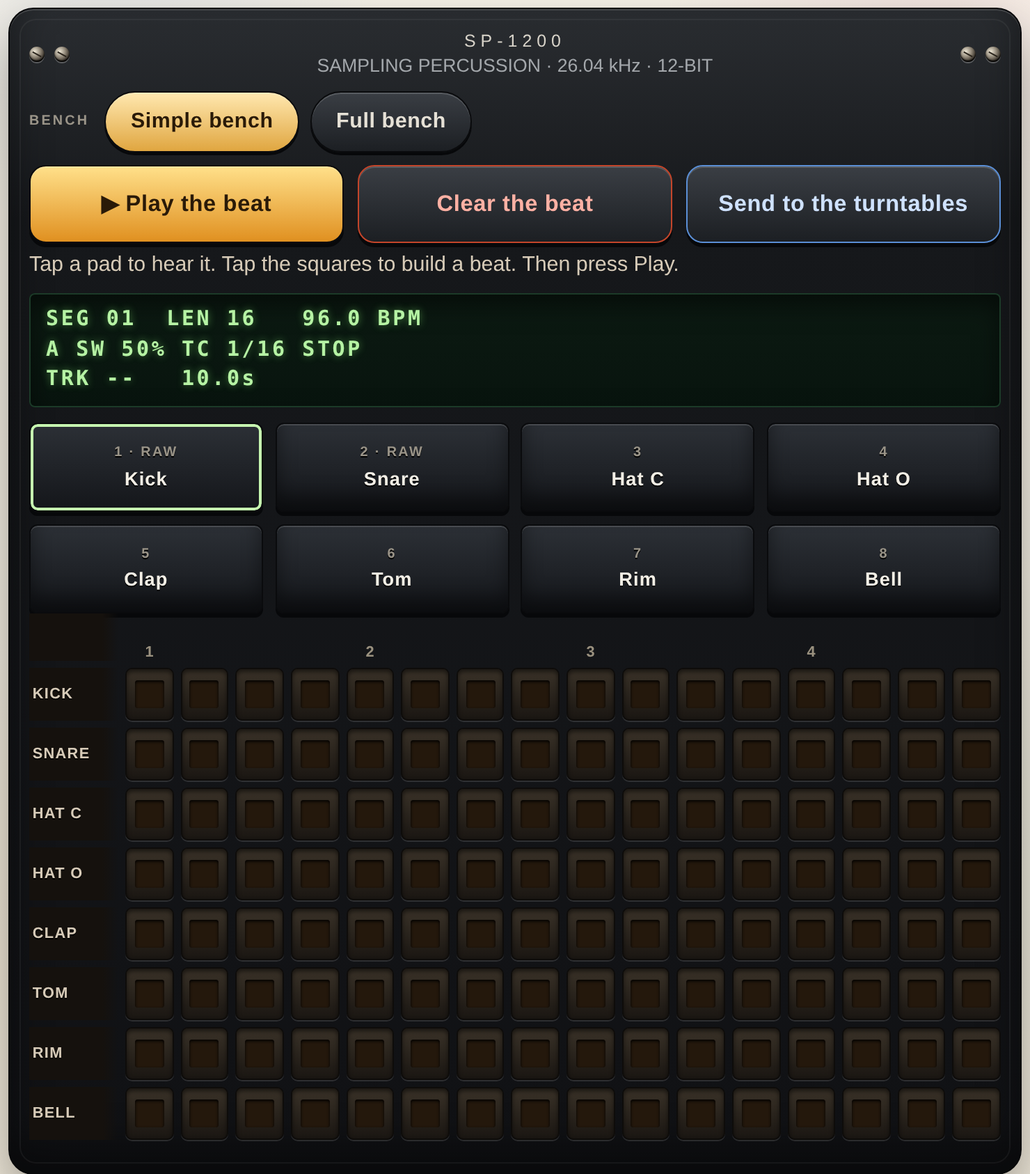
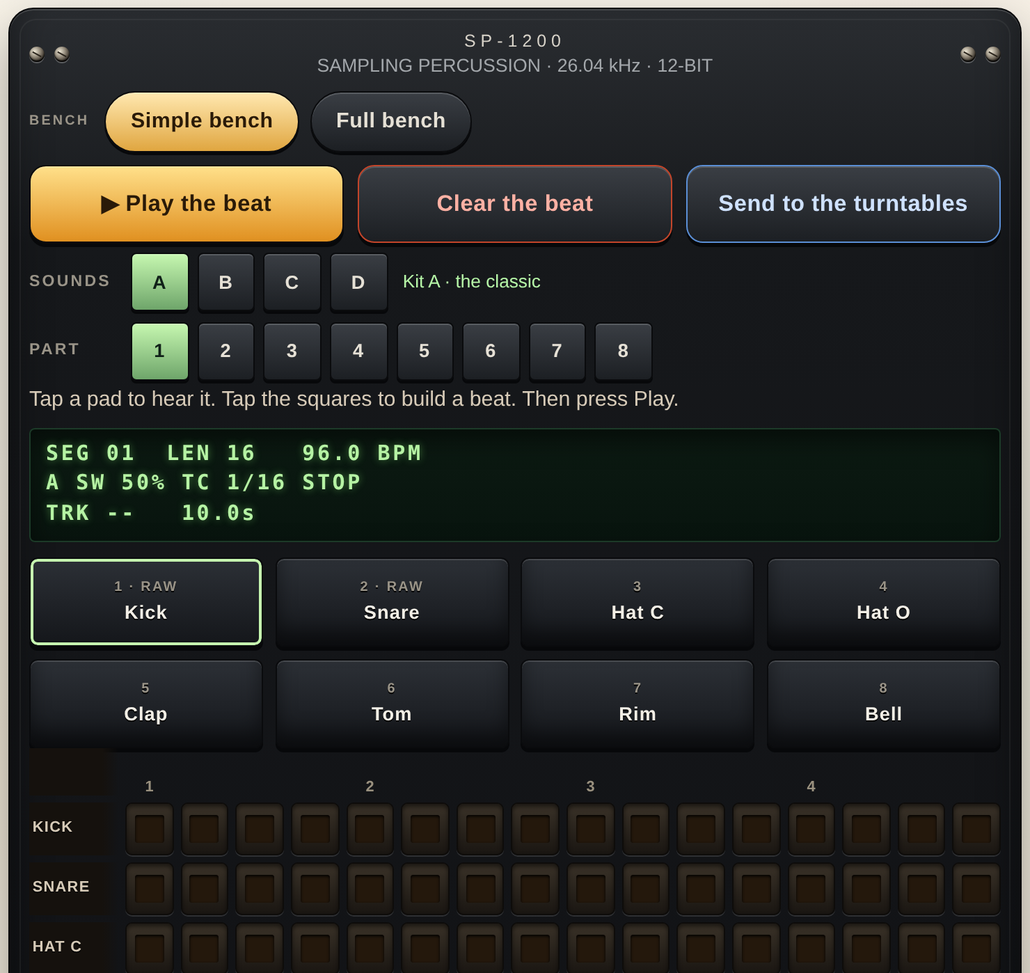
Drum machine: kits in banks C and D; Sounds and Part rows on the Simple bench
Bank C is an electro kit (808-style boom, snapping snare, tick and hiss hats,
big clap, conga, cowbell, zap). Bank D is a dusty-breaks kit (thump with a
click, rimshot crack, shaker, tambourine, finger snap, timbale, woodblock,
triangle). Both are baked through the same twelve bits and 26,040 Hz as A; a
sample loaded onto a pad still wins. The Simple bench shows Sounds A B C D and
Part 1–8, pressing the real keys. Picture guide updated. Cache bumped.

Claude-Session: https://claude.ai/code/session_01DeFL2jVNTjgcE9uZVbxzre

diff --git a/aog-deploy/sw.js b/aog-deploy/sw.js
@@ -8,7 +8,7 @@
  * not run on this file. Forget the bump and returning visitors keep the stale
  * page from their cache.
  */
-const CACHE = 'aog-cache-2026.09.26.4840'   // NEW DASHBOARD STAGE 4: INBOX + SWITCH-OVER. previous: NEW DASHBOARD STAGE 3: TRENDS, BRICK BY BRICK, REPORTS; BLUEPRINT PRINTS CLEAN. previous: NEW DASHBOARD STAGE 2: STUDENTS + CHECK-INS, WIDER. previous: DEMO BUTTON BY MTSS; TALK IT OUT OFF DASHBOARD; TEACHER TOOLS ON NEW DASHBOARD. previous: ONE ROW PER SEND: THE NO-CORS BACKUP NO LONGER DUPLICATES A SEND GOOGLE ALREADY SAVED. previous: NEW DASHBOARD STAGE 1 (/dashboard): TODAY, HAND OUT, CLASS LINK, TEACHER + STUDENT VIEWS; SHORTER DAILY DRAFTS WORDS. previous: PRINTS IN COLOUR SITE-WIDE; DAILY DRAFTS STRAND TABS IN COLOUR; MASTERING LISTS FIXED. previous: COURSE UNITS: ONE SECTION PER PAGE WITH BACK / NEXT. previous: SEND TO MY TEACHER IS ONE BIG GREEN BUTTON. previous: MASTERING COURSES (turntables, drum machine) WITH PICTURES; SMALLER TICK. previous: DARK MODE LIGHTER (evening navy); PICKED FEELINGS SHOW SOLID GOLD. previous: BENCHES LISTED LAB THEN ITS MANUAL. previous: MICROSCOPE: LIVE TICK, REALISTIC CHITIN; QUARTZ LENSES. previous: HOME HERO FITS A LAPTOP WINDOW. previous: EXPLORE MENU FITS THE SCREEN AND GAINS AT HOME. previous: SLIDES FACELIFT: every Start-here picture on 167 lesson pages gets shading, shadows, a lit stage and a step counter (aog-slides.js). previous: GRACE AT HOME IS LIVE (/at-home); NEW VISITORS START LIGHT; /framework /dashboard doors; build stamp. previous: OSCILLOSCOPE RECORD BUTTON; BACK NO LONGER LOOPS ON HOME ROOMS; SHOW-MY-TEACHER CLOSES ON BACK; AT HOME LAST IN DOOR 3. previous: EVERY PAGE STARTS LIGHT (navy masthead, cream page); one-time reset of old dark choices. previous: MICROSCOPE: DOG HAIR & TICK SLIDE + SLIDES IN ONE GROUPED MENU. previous: MICROSCOPE ORIGINALS CRAFT PASS: drawn blood and cheek, capsule bacteria, clearer onion. previous: MICROSCOPE: LEAF HAIRS SLIDE. previous: MICROSCOPE CRAFT PASS: shaded pollen, lily net, wing shadows, guard cells, cached views. previous: TURNTABLES: LOAD A SONG OPENS YOUR SONG LIBRARY; every song is copied so it never vanishes. previous: FIVE NEW MICROSCOPE SLIDES (pollen, butterfly wing, leaf stomata, diatoms, salt & sugar) + THE BAR CLEARS THE NOTCH AND GAINS BACK. previous: PLAIN WORDS: Family Mode, Quiet Space teacher tips, the check-in/exit/My Voice code hints and the self-reflection start screen, EN+ES. previous: PLAIN WORDS: the Educator Dashboard's help, intro and empty-state text (about 50 passages) rewritten, EN+ES; last store footnote removed. previous: PLAIN WORDS: home page hero and three doors rewritten, EN+ES; CLAUDE.md gains the plain-words rule. previous: PRIVACY IN PLAIN WORDS: every Privacy section rewritten shorter and plainer, same facts, EN+ES. previous: THE CROSSWALK PDFs ARE RETIRED: the 10 files are gone, every link points to its page, old PDF addresses 301 to the pages, Original PDF buttons removed. previous: Crosswalk pages: Confidential labels and store notes removed. previous: ALL TEN CROSSWALKS ARE PAGES: IDEA Legal linked. previous: CROSSWALK PAGES: Restorative, both Matrix previews and the Divine Blueprint Master linked. previous: CROSSWALK PAGES: Illinois SEL, Danielson, IDEA, MTSS live; Matrix previews built. previous: CROSSWALKS AS PAGES begin: aog-crosswalk.css + xw-casel.html. previous: BACK WORKS FROM THE CROSSWALK: back no longer re-opens it or leaves a blank screen. previous: THE SLIPS OPEN AGAIN: _redirects gains the 8 share doors (/reflection /checkin /exit /support /goal /home /myvoice /contribute), link/exit.html and link/contribute.html are new; the daily check-in, exit slip and My Voice get leaded glass cards. previous: QUIET SPACE IN GLASS: six soft glass tiles, a leaded right-now check, glass chips per question, a chapel-light glow; no motion. previous: Self-reflection name box: Your name or a code / Initials or a nickname are fine (EN+ES). previous: ONE BACKGROUND EVERYWHERE (aog-calm.css: limestone with stained-glass light pools in light, the same over navy in dark), Crosswalk stands alone, elegant Crosswalk cards, Explore 3 columns without overlap and never self-opening, Today's picture Close clear of the date, Framework loop list aligned. previous: CALM ON EVERY PAGE + GLASS IN THE ROOMS + TURNTABLE TAPS. aog-calm.css (the stillness rules: no sideways pan, no zoom on tap, no motion on touch, no rubber-band, clear focus) loads on every page, tools/check-calm.js guards it; the 9 subject hubs and 5 SEL rooms get the stained glass (aog-glass-rooms.css); the turntable and drum bench stop raising copy/paste and answer the first tap. previous: THE HERO GETS A ROSE WINDOW: a leaded rose window lit from behind glows softly behind the name, and the three doors are leaded with a band of glass each. previous: THE ROSE WINDOW GETS A STEM: the STEM doorway is gone; a leaded-glass flower stem with two glass leaves grows down from Grace through the open bottom point, and the lower motto moves below it. previous: THE ECOSYSTEM IN REAL GLASS: every roundel a leaded rondel (mottled glass, backlight, eight lead cames around a centre ring), Grace ringed in cames; the bottom doorway is now STEM (a Math / Science chooser) and Families moves to the open point; Faith stays hidden. previous: THE ECOSYSTEM AS A ROSE WINDOW: every doorway on the Framework's orbit is a jewel-glass roundel with a lead rim and white lettering; Grace a gold-ringed medallion. previous: DOOR THREE BACK (Family, Framework, Standards Crosswalk, Privacy; store and district doors stay shut) + STAINED GLASS on Family Mode, the Crosswalk, the Framework and Privacy; the title focus ring box removed; Crosswalk doubled heading fixed; Request full set and Pilot for schools hidden. previous: EXPLORE MENU IN STAINED GLASS: leaded, gold-framed panel; every door icon a jewel-glass pane in its subject colour; room rows edged in their room's glass; 01/02 as gold medallions (aog-topbar.js, every page). previous: DAILY DRAFTS CONTROL CARD IN GLASS: each subject a tile of its own jewel glass (chosen one lit), Grade menu and Draft stepper leaded with a gold chevron, card framed. previous: ALGORITHM TILES: each column problem is its own tile, the operation a jewel pill, answer cells light and dashed (gold when in use), START a gold arrow; aog-legible.js and the contrast check now read color(srgb ...) values. previous: DAILY DRAFTS GLASS REACHES WRITING: the plan boxes are jewel panes with lead edges and the prompt card is leaded; verified the ten-strand glass on all 100 subject/grade combinations. previous: DAILY DRAFTS IN STAINED GLASS: each of the ten strand boxes is a leaded jewel-glass pane, the Structural elements chips light in the same colours as strands are finished, and the sheet is framed like a window (screen only; print unchanged). previous: WHO'S BUILDING + TEST RUNS. Student view asks Who's building today? (names this device sent under, or I'm new) and the solo Blueprint never falls back to another person; a Test runs switch on the teacher dashboard marks every send from any page as <name> (test), with a TEST RUN tag on every page while on. previous: STUDENT HOME + INBOX IN THE DASHBOARD. aog-mine.js keeps a private copy of each practice send on the learner's device (aog.practice.mine); the dashboard's Student view shows Keep building links and the learner's own Blueprint; the Inbox tab opens turn-ins.html?embed=1 inside the dashboard. previous: FIVE STAINED-GLASS WINDOWS: the Blueprint can be built as a Rose Window, Gothic Lancet, Tiffany Dome, Kaleidoscope Star or Byzantine Ceiling, chosen per student; mottled glass, lead came, backlight, stone and bronze frames. previous: MY BLUEPRINT: a rose-window mosaic in the Inbox (Blueprint view, ?blueprint=name): every send is a pane of stained glass, centre outward; I'm learning for me switch hides IEP wording; dashboard growth section links to it. Where-this-comes-from box removed. previous: INBOX SPEAKS BRICK: Copy for IEP evidence -> Copy this brick (IEP evidence kept in the tooltip and copied note). previous: INBOX SHOWS DAILY DRAFTS ANSWERS. Jimmy: the Inbox Daily Drafts cards read empty (Counts only). turn-ins.html now reads extra.answers (strand, answer, right/wrong, key), writing rows (text, plan, rubric), and any other extra fields. previous: AOG-LEGIBLE-V1: aog-legible.js on every page (via aog-grace.js; index.html directly) darkens or lightens any text below 3:1 against its real background until it reads, keeping its hue; re-runs on theme flips and new content. previous: BRICK BY BRICK. Jimmy: tie the data points to the program's architecture theme. Growth over time -> Brick by brick; Add to an IEP goal -> Lay these bricks; the IEP tab heading -> The Build · IEP progress monitor; Where the next teaching is -> Next brick. Printed evidence keeps the official IEP wording. previous: GROWTH OVER TIME: every graph gets Print this graph (one activity on its own sheet); the top button reads Print all of <student>'s graphs. previous: NO MORE CREAM ON WHITE. aog-grace.js marks light boxes of every tag (p, span, a, button too) inside the navy masthead and re-checks content rendered later; turn-ins.html closes its header so the Inbox cards are not in the masthead. previous: THE SHEET CONNECTION STAYS PUT (AOG-CONN-KEEP-V1). Jimmy: has to re-enter the Web App URL quite a bit. Safari clears localStorage after 7 days unvisited and each address (.org, .netlify.app, previews) has its own; aog-conn-keep.js mirrors the connection to IndexedDB + a cookie and restores it, and the dashboard gains Copy restore link (#aog-connect=, never sent to a server). previous: EDUCATOR DASHBOARD: the Open as text (iPad) button is gone. Jimmy: it 404s (the /script copy was never deployed) and is not needed; Download Code.gs and the Setup guide stay. previous: UP NEXT IS A REAL CRATE: records stand as sleeves in a wooden box, drag one onto a deck or press A/B. previous: TURNTABLE RECORD CRATE + PICTURE GUIDES. Jimmy: make the turntable remember what was last used after the tab closes, with a Previously spun list and an Up next crate; put pictures in the turntable and drum kit guides. music-decks.html gains the crate (IndexedDB aog-crate: each deck's record + needle position, last 8 spun, Up next queue) and restores both decks on open; decks-guide.html gains section 7 Your record crate (pt-crate-next/prev/row.png); drums-guide.html gains screenshots in sections 5-9 (pd-presets.png new) replacing the icon drawings in Nothing is happening; music-drums .chip text color fixed for dark theme. previous: NO DARWINIAN EVOLUTION IN SCIENCE. Jimmy: remove evolution in the sense of Darwin. The Natural Selection (b8) and Genetics and Evolution (b33) Exam Prep rooms are retired (/b8 -> /exam-prep, /b33 -> /sci-u17) and dropped from every page's jump menu, the topbar, the precache list and the hubs; evolution items in the other science rooms are rewritten; the MS/HS LS4 codes leave the crosswalk; the Unit 14 banner loses its Galapagos finches (AOG-NOEVO-V1).
+const CACHE = 'aog-cache-2026.09.26.4850'   // NEW DASHBOARD STAGE 4: INBOX + SWITCH-OVER. previous: NEW DASHBOARD STAGE 3: TRENDS, BRICK BY BRICK, REPORTS; BLUEPRINT PRINTS CLEAN. previous: NEW DASHBOARD STAGE 2: STUDENTS + CHECK-INS, WIDER. previous: DEMO BUTTON BY MTSS; TALK IT OUT OFF DASHBOARD; TEACHER TOOLS ON NEW DASHBOARD. previous: ONE ROW PER SEND: THE NO-CORS BACKUP NO LONGER DUPLICATES A SEND GOOGLE ALREADY SAVED. previous: NEW DASHBOARD STAGE 1 (/dashboard): TODAY, HAND OUT, CLASS LINK, TEACHER + STUDENT VIEWS; SHORTER DAILY DRAFTS WORDS. previous: PRINTS IN COLOUR SITE-WIDE; DAILY DRAFTS STRAND TABS IN COLOUR; MASTERING LISTS FIXED. previous: COURSE UNITS: ONE SECTION PER PAGE WITH BACK / NEXT. previous: SEND TO MY TEACHER IS ONE BIG GREEN BUTTON. previous: MASTERING COURSES (turntables, drum machine) WITH PICTURES; SMALLER TICK. previous: DARK MODE LIGHTER (evening navy); PICKED FEELINGS SHOW SOLID GOLD. previous: BENCHES LISTED LAB THEN ITS MANUAL. previous: MICROSCOPE: LIVE TICK, REALISTIC CHITIN; QUARTZ LENSES. previous: HOME HERO FITS A LAPTOP WINDOW. previous: EXPLORE MENU FITS THE SCREEN AND GAINS AT HOME. previous: SLIDES FACELIFT: every Start-here picture on 167 lesson pages gets shading, shadows, a lit stage and a step counter (aog-slides.js). previous: GRACE AT HOME IS LIVE (/at-home); NEW VISITORS START LIGHT; /framework /dashboard doors; build stamp. previous: OSCILLOSCOPE RECORD BUTTON; BACK NO LONGER LOOPS ON HOME ROOMS; SHOW-MY-TEACHER CLOSES ON BACK; AT HOME LAST IN DOOR 3. previous: EVERY PAGE STARTS LIGHT (navy masthead, cream page); one-time reset of old dark choices. previous: MICROSCOPE: DOG HAIR & TICK SLIDE + SLIDES IN ONE GROUPED MENU. previous: MICROSCOPE ORIGINALS CRAFT PASS: drawn blood and cheek, capsule bacteria, clearer onion. previous: MICROSCOPE: LEAF HAIRS SLIDE. previous: MICROSCOPE CRAFT PASS: shaded pollen, lily net, wing shadows, guard cells, cached views. previous: TURNTABLES: LOAD A SONG OPENS YOUR SONG LIBRARY; every song is copied so it never vanishes. previous: FIVE NEW MICROSCOPE SLIDES (pollen, butterfly wing, leaf stomata, diatoms, salt & sugar) + THE BAR CLEARS THE NOTCH AND GAINS BACK. previous: PLAIN WORDS: Family Mode, Quiet Space teacher tips, the check-in/exit/My Voice code hints and the self-reflection start screen, EN+ES. previous: PLAIN WORDS: the Educator Dashboard's help, intro and empty-state text (about 50 passages) rewritten, EN+ES; last store footnote removed. previous: PLAIN WORDS: home page hero and three doors rewritten, EN+ES; CLAUDE.md gains the plain-words rule. previous: PRIVACY IN PLAIN WORDS: every Privacy section rewritten shorter and plainer, same facts, EN+ES. previous: THE CROSSWALK PDFs ARE RETIRED: the 10 files are gone, every link points to its page, old PDF addresses 301 to the pages, Original PDF buttons removed. previous: Crosswalk pages: Confidential labels and store notes removed. previous: ALL TEN CROSSWALKS ARE PAGES: IDEA Legal linked. previous: CROSSWALK PAGES: Restorative, both Matrix previews and the Divine Blueprint Master linked. previous: CROSSWALK PAGES: Illinois SEL, Danielson, IDEA, MTSS live; Matrix previews built. previous: CROSSWALKS AS PAGES begin: aog-crosswalk.css + xw-casel.html. previous: BACK WORKS FROM THE CROSSWALK: back no longer re-opens it or leaves a blank screen. previous: THE SLIPS OPEN AGAIN: _redirects gains the 8 share doors (/reflection /checkin /exit /support /goal /home /myvoice /contribute), link/exit.html and link/contribute.html are new; the daily check-in, exit slip and My Voice get leaded glass cards. previous: QUIET SPACE IN GLASS: six soft glass tiles, a leaded right-now check, glass chips per question, a chapel-light glow; no motion. previous: Self-reflection name box: Your name or a code / Initials or a nickname are fine (EN+ES). previous: ONE BACKGROUND EVERYWHERE (aog-calm.css: limestone with stained-glass light pools in light, the same over navy in dark), Crosswalk stands alone, elegant Crosswalk cards, Explore 3 columns without overlap and never self-opening, Today's picture Close clear of the date, Framework loop list aligned. previous: CALM ON EVERY PAGE + GLASS IN THE ROOMS + TURNTABLE TAPS. aog-calm.css (the stillness rules: no sideways pan, no zoom on tap, no motion on touch, no rubber-band, clear focus) loads on every page, tools/check-calm.js guards it; the 9 subject hubs and 5 SEL rooms get the stained glass (aog-glass-rooms.css); the turntable and drum bench stop raising copy/paste and answer the first tap. previous: THE HERO GETS A ROSE WINDOW: a leaded rose window lit from behind glows softly behind the name, and the three doors are leaded with a band of glass each. previous: THE ROSE WINDOW GETS A STEM: the STEM doorway is gone; a leaded-glass flower stem with two glass leaves grows down from Grace through the open bottom point, and the lower motto moves below it. previous: THE ECOSYSTEM IN REAL GLASS: every roundel a leaded rondel (mottled glass, backlight, eight lead cames around a centre ring), Grace ringed in cames; the bottom doorway is now STEM (a Math / Science chooser) and Families moves to the open point; Faith stays hidden. previous: THE ECOSYSTEM AS A ROSE WINDOW: every doorway on the Framework's orbit is a jewel-glass roundel with a lead rim and white lettering; Grace a gold-ringed medallion. previous: DOOR THREE BACK (Family, Framework, Standards Crosswalk, Privacy; store and district doors stay shut) + STAINED GLASS on Family Mode, the Crosswalk, the Framework and Privacy; the title focus ring box removed; Crosswalk doubled heading fixed; Request full set and Pilot for schools hidden. previous: EXPLORE MENU IN STAINED GLASS: leaded, gold-framed panel; every door icon a jewel-glass pane in its subject colour; room rows edged in their room's glass; 01/02 as gold medallions (aog-topbar.js, every page). previous: DAILY DRAFTS CONTROL CARD IN GLASS: each subject a tile of its own jewel glass (chosen one lit), Grade menu and Draft stepper leaded with a gold chevron, card framed. previous: ALGORITHM TILES: each column problem is its own tile, the operation a jewel pill, answer cells light and dashed (gold when in use), START a gold arrow; aog-legible.js and the contrast check now read color(srgb ...) values. previous: DAILY DRAFTS GLASS REACHES WRITING: the plan boxes are jewel panes with lead edges and the prompt card is leaded; verified the ten-strand glass on all 100 subject/grade combinations. previous: DAILY DRAFTS IN STAINED GLASS: each of the ten strand boxes is a leaded jewel-glass pane, the Structural elements chips light in the same colours as strands are finished, and the sheet is framed like a window (screen only; print unchanged). previous: WHO'S BUILDING + TEST RUNS. Student view asks Who's building today? (names this device sent under, or I'm new) and the solo Blueprint never falls back to another person; a Test runs switch on the teacher dashboard marks every send from any page as <name> (test), with a TEST RUN tag on every page while on. previous: STUDENT HOME + INBOX IN THE DASHBOARD. aog-mine.js keeps a private copy of each practice send on the learner's device (aog.practice.mine); the dashboard's Student view shows Keep building links and the learner's own Blueprint; the Inbox tab opens turn-ins.html?embed=1 inside the dashboard. previous: FIVE STAINED-GLASS WINDOWS: the Blueprint can be built as a Rose Window, Gothic Lancet, Tiffany Dome, Kaleidoscope Star or Byzantine Ceiling, chosen per student; mottled glass, lead came, backlight, stone and bronze frames. previous: MY BLUEPRINT: a rose-window mosaic in the Inbox (Blueprint view, ?blueprint=name): every send is a pane of stained glass, centre outward; I'm learning for me switch hides IEP wording; dashboard growth section links to it. Where-this-comes-from box removed. previous: INBOX SPEAKS BRICK: Copy for IEP evidence -> Copy this brick (IEP evidence kept in the tooltip and copied note). previous: INBOX SHOWS DAILY DRAFTS ANSWERS. Jimmy: the Inbox Daily Drafts cards read empty (Counts only). turn-ins.html now reads extra.answers (strand, answer, right/wrong, key), writing rows (text, plan, rubric), and any other extra fields. previous: AOG-LEGIBLE-V1: aog-legible.js on every page (via aog-grace.js; index.html directly) darkens or lightens any text below 3:1 against its real background until it reads, keeping its hue; re-runs on theme flips and new content. previous: BRICK BY BRICK. Jimmy: tie the data points to the program's architecture theme. Growth over time -> Brick by brick; Add to an IEP goal -> Lay these bricks; the IEP tab heading -> The Build · IEP progress monitor; Where the next teaching is -> Next brick. Printed evidence keeps the official IEP wording. previous: GROWTH OVER TIME: every graph gets Print this graph (one activity on its own sheet); the top button reads Print all of <student>'s graphs. previous: NO MORE CREAM ON WHITE. aog-grace.js marks light boxes of every tag (p, span, a, button too) inside the navy masthead and re-checks content rendered later; turn-ins.html closes its header so the Inbox cards are not in the masthead. previous: THE SHEET CONNECTION STAYS PUT (AOG-CONN-KEEP-V1). Jimmy: has to re-enter the Web App URL quite a bit. Safari clears localStorage after 7 days unvisited and each address (.org, .netlify.app, previews) has its own; aog-conn-keep.js mirrors the connection to IndexedDB + a cookie and restores it, and the dashboard gains Copy restore link (#aog-connect=, never sent to a server). previous: EDUCATOR DASHBOARD: the Open as text (iPad) button is gone. Jimmy: it 404s (the /script copy was never deployed) and is not needed; Download Code.gs and the Setup guide stay. previous: UP NEXT IS A REAL CRATE: records stand as sleeves in a wooden box, drag one onto a deck or press A/B. previous: TURNTABLE RECORD CRATE + PICTURE GUIDES. Jimmy: make the turntable remember what was last used after the tab closes, with a Previously spun list and an Up next crate; put pictures in the turntable and drum kit guides. music-decks.html gains the crate (IndexedDB aog-crate: each deck's record + needle position, last 8 spun, Up next queue) and restores both decks on open; decks-guide.html gains section 7 Your record crate (pt-crate-next/prev/row.png); drums-guide.html gains screenshots in sections 5-9 (pd-presets.png new) replacing the icon drawings in Nothing is happening; music-drums .chip text color fixed for dark theme. previous: NO DARWINIAN EVOLUTION IN SCIENCE. Jimmy: remove evolution in the sense of Darwin. The Natural Selection (b8) and Genetics and Evolution (b33) Exam Prep rooms are retired (/b8 -> /exam-prep, /b33 -> /sci-u17) and dropped from every page's jump menu, the topbar, the precache list and the hubs; evolution items in the other science rooms are rewritten; the MS/HS LS4 codes leave the crosswalk; the Unit 14 banner loses its Galapagos finches (AOG-NOEVO-V1).
 // previous: const CACHE = 'aog-cache-2026.09.26.4421'   // ANCHOR CHARTS: THE BACKPACK BOXES TAKE WORDS. Jimmy: "This seems like a area to insert but you can insert anything." The four 'Added as the lesson progresses' boxes were reveal-only; now a tap reveals a waiting box and each box takes the class's own words, saved with the chart (AOG-AC-PACKTAP-V1).
 // previous: const CACHE = 'aog-cache-2026.09.26.4420'   // ECONOMICS FL.1 AND STANDARDS TAGGING. Economics Unit 1 gains lesson 2.12, Investing in Your Own Skills (SS.EC.FL.1.9-12: education and career choices as a cost-benefit decision), spliced into eco-u1.html by a three-way merge of the course build so no later page edit is lost. World Religions units 4, 5, 7 and 9 are tagged SS.G.6.9-12 and the capstone RH.11-12.8, where the lessons already teach them; the crosswalk and standards data are rebuilt.
 // previous: const CACHE = 'aog-cache-2026.09.26.4419'   // DAILY DRAFTS, SPANISH CULTURES AND FACS RELATIONSHIPS. ACTFL Cultures and Comparisons join every Spanish reading box in that grade's language rung; FACS standards 1, 12 and 13 (career and family, human development, relationships) join the decide/reasoning boxes. Economics and World Religions already match their standards one box to one. Still ten boxes (AOG-DD-STD3-V1).

diff --git a/aog-deploy/music-drums.html b/aog-deploy/music-drums.html
@@ -110,6 +110,10 @@ header { display:flex; flex-wrap:wrap; justify-content:space-between; align-item
 .simple-strip .s-play.go{background:linear-gradient(#ffb1a4,#c4452a);color:#2a0c08}
 .simple-strip .s-clear{border-color:#c4452a;color:#ffb1a4}
 .simple-strip .s-decks{border-color:#5b8fd6;color:#cfe2ff}
+.simple-row{display:flex;flex-wrap:wrap;gap:6px;align-items:center;margin:.45rem 0 0}
+.simple-row>span{font-size:.72rem;letter-spacing:.14em;color:#9a9488;font-weight:800;text-transform:uppercase;min-width:4.2rem}
+.simple-row>em{font-style:normal;color:#b7f7a8;font-size:.82rem;margin-left:.3rem}
+.simple-row .sp-key{min-width:2.6rem;font-size:.85rem}
 .simple-line{color:#d7cbb8;font-size:.95rem;margin:.2rem 0 .6rem;line-height:1.4}
 @media (max-width:520px){ .simple-strip{grid-template-columns:1fr 1fr} .simple-strip .s-play{grid-column:1 / -1} }
 .machine.simple .sp-keys,.machine.simple .sp-banks,.machine.simple .scope-bezel,.machine.simple .sp-eq,.machine.simple .fader,.machine.simple .seg-label{display:none}
@@ -424,6 +428,7 @@ const STR = {
   clear:{en:"Clear grid",es:"Vaciar"},
   benchLab:{en:"Bench",es:"Banco"}, benchSimple:{en:"Simple bench",es:"Banco sencillo"}, benchFull:{en:"Full bench",es:"Banco completo"},
   sPlay:{en:"▶ Play the beat",es:"▶ Tocar el ritmo"}, sStop:{en:"■ Stop",es:"■ Parar"}, sClear:{en:"Clear the beat",es:"Borrar el ritmo"}, sDecks:{en:"Send to the turntables",es:"Enviar a los platos"},
+  sKit:{en:"Sounds",es:"Sonidos"}, sPart:{en:"Part",es:"Parte"},
   sLine:{en:"Tap a pad to hear it. Tap the squares to build a beat. Then press Play.",es:"Toca un pad para oírlo. Toca los cuadros para armar un ritmo. Luego pulsa Tocar."},
   tempo:{en:"Tempo",es:"Tempo"},
   swing:{en:"Swing",es:"Swing"},
@@ -502,6 +507,7 @@ const S = { bench:(function(){ try{ return localStorage.getItem("aog.drums.bench
   eq:{low:0, lmid:0, lmidF:400, hmid:0, hmidF:2500, high:0, hp:20} };
 const USER = {A:{}, B:{}, C:{}, D:{}};
 const ROM = {};
+const ROMK = {C:{}, D:{}};   /* AOG-SP-KITCD-V1 — the electro and dusty kits */
 const ROM_LEN = {};
 function emptyGrid(){
   const g={}; VOICES.forEach(v=> g[v.id]=Array(16).fill(0)); return g;
@@ -684,7 +690,77 @@ function noiseHit(ac, dest, t0, type, freq, q, peak, decay){
   const g=envGain(ac, dest, t0, peak, decay);
   src.connect(f); f.connect(g); src.start(t0); src.stop(t0+decay+0.03);
 }
-function renderVoice(id, t0, dest, ac){
+/* AOG-SP-KITCD-V1 (2026-09-26) — Jimmy: "fill up C & D with other sounds you think would fit the
+   SP-1200 the best." Bank C is the ELECTRO kit the machine was famous for pairing with — a long
+   808-style boom, a snapping snare, a cowbell and a conga, a zap. Bank D is the DUSTY kit — the
+   found percussion of a breakbeat: a thumping kick with a click, a cracking rimshot snare, a shaker,
+   a tambourine, a finger snap, a timbale, a woodblock, a triangle. Both are baked through the same
+   twelve bits and 26,040 Hz as A, so they crunch the same way. A sample loaded onto a pad still
+   wins over the kit sound on that pad. */
+const KIT_NAME={C:{kick:"BOOM",snare:"SNAP",ch:"TICK",oh:"HISS",clap:"CLAP2",tom:"CONGA",rim:"COWBEL",bell:"ZAP"},
+                D:{kick:"THUMP",snare:"CRACK",ch:"SHAKER",oh:"TAMB",clap:"FSNAP",tom:"TIMBAL",rim:"BLOCK",bell:"TRIANG"}};
+const KIT_LABEL={A:["Kit A · the classic","Kit A · el clásico"],B:["Kit B · the classic, retuned","Kit B · el clásico, reafinado"],C:["Kit C · electro","Kit C · electro"],D:["Kit D · dusty breaks","Kit D · breaks polvorientos"]};
+function romFor(bank){ return (bank==="C"||bank==="D") ? ROMK[bank] : ROM; }
+function renderVoiceC(id, t0, dest, ac){
+  if(id==="kick"){            /* the 808 boom: a sine that sags from 62 to 38 Hz and hangs on */
+    tone(ac, dest, t0, "sine", 62, 38, 0.95, 0.85);
+    tone(ac, dest, t0, "square", 900, 200, 0.08, 0.008);
+  } else if(id==="snare"){    /* short, snapping, more noise than tone */
+    tone(ac, dest, t0, "triangle", 210, 170, 0.22, 0.07);
+    noiseHit(ac, dest, t0, "bandpass", 2600, 0.8, 0.5, 0.11);
+    noiseHit(ac, dest, t0, "highpass", 6000, 0.7, 0.2, 0.05);
+  } else if(id==="ch"){       /* a tick: very short metallic burst */
+    noiseHit(ac, dest, t0, "highpass", 8000, 0.9, 0.3, 0.03);
+    tone(ac, dest, t0, "square", 5200, 5200, 0.05, 0.02);
+  } else if(id==="oh"){       /* a hiss that breathes out */
+    noiseHit(ac, dest, t0, "highpass", 6500, 0.6, 0.22, 0.3);
+    tone(ac, dest, t0, "square", 4100, 4100, 0.03, 0.22);
+  } else if(id==="clap"){     /* the big electro clap: five bursts then a room */
+    [0, 0.01, 0.02, 0.03, 0.045].forEach((off,i)=>noiseHit(ac, dest, t0+off, "bandpass", 1200+i*120, 0.9, 0.3, 0.08));
+    noiseHit(ac, dest, t0+0.05, "bandpass", 1500, 0.7, 0.18, 0.28);
+  } else if(id==="tom"){      /* a conga: a bright tap that drops fast */
+    tone(ac, dest, t0, "sine", 330, 215, 0.6, 0.16);
+    tone(ac, dest, t0, "triangle", 660, 430, 0.12, 0.03);
+  } else if(id==="rim"){      /* the cowbell: two square waves a fifth-ish apart */
+    tone(ac, dest, t0, "square", 540, 540, 0.12, 0.14);
+    tone(ac, dest, t0, "square", 800, 800, 0.1, 0.12);
+  } else if(id==="bell"){     /* the zap: a fast fall from high to low */
+    tone(ac, dest, t0, "sawtooth", 2400, 90, 0.22, 0.1);
+    tone(ac, dest, t0, "sine", 1200, 60, 0.18, 0.12);
+  }
+}
+function renderVoiceD(id, t0, dest, ac){
+  if(id==="kick"){            /* a thump with the beater's click on the front */
+    tone(ac, dest, t0, "sine", 120, 52, 0.85, 0.2);
+    noiseHit(ac, dest, t0, "lowpass", 900, 0.5, 0.18, 0.015);
+    tone(ac, dest, t0, "triangle", 1400, 300, 0.1, 0.01);
+  } else if(id==="snare"){    /* the rimshot crack: ring plus wire */
+    tone(ac, dest, t0, "triangle", 240, 190, 0.3, 0.09);
+    tone(ac, dest, t0, "square", 1900, 1400, 0.14, 0.03);
+    noiseHit(ac, dest, t0, "bandpass", 3400, 0.6, 0.42, 0.15);
+    noiseHit(ac, dest, t0, "highpass", 7000, 0.6, 0.16, 0.08);
+  } else if(id==="ch"){       /* a shaker: three grains of sand */
+    [0, 0.014, 0.03].forEach((off,i)=>noiseHit(ac, dest, t0+off, "highpass", 5500+i*800, 0.5, 0.16-i*0.03, 0.035));
+  } else if(id==="oh"){       /* a tambourine: jingles ringing over a slap */
+    noiseHit(ac, dest, t0, "bandpass", 5200, 0.7, 0.2, 0.22);
+    [4200, 5600, 7100, 8900].forEach((f,i)=>tone(ac, dest, t0+i*0.006, "square", f, f*0.98, 0.035, 0.2));
+  } else if(id==="clap"){     /* a finger snap: one dry pop */
+    noiseHit(ac, dest, t0, "bandpass", 2200, 1.2, 0.5, 0.045);
+    tone(ac, dest, t0, "sine", 700, 300, 0.12, 0.02);
+  } else if(id==="tom"){      /* a timbale: a metal shell, ringing */
+    tone(ac, dest, t0, "sine", 262, 210, 0.5, 0.22);
+    tone(ac, dest, t0, "square", 1050, 1000, 0.07, 0.08);
+    noiseHit(ac, dest, t0, "bandpass", 3000, 0.8, 0.12, 0.03);
+  } else if(id==="rim"){      /* a woodblock: hollow and quick */
+    tone(ac, dest, t0, "sine", 880, 840, 0.4, 0.05);
+    tone(ac, dest, t0, "triangle", 1760, 1700, 0.12, 0.02);
+  } else if(id==="bell"){     /* a triangle: high, thin, and it lasts */
+    [[2960,0.12],[4420,0.08],[7200,0.04]].forEach(p=>tone(ac, dest, t0, "sine", p[0], p[0]*0.995, p[1], 0.55));
+  }
+}
+function renderVoice(id, t0, dest, ac, bank){
+  if(bank==="C") return renderVoiceC(id, t0, dest, ac);
+  if(bank==="D") return renderVoiceD(id, t0, dest, ac);
   if(id==="kick"){
     tone(ac, dest, t0, "sine", 168, 48, 0.9, 0.36);
     tone(ac, dest, t0, "triangle", 880, 150, 0.16, 0.016);
@@ -852,8 +928,7 @@ function chanMsg(id, when, accent){
 function bankEmpty(){ return VOICES.every(v=>!padHasSound(v.id)) }
 function padHasSound(id){
   if(USER[S.bank] && USER[S.bank][id]) return true;
-  if(S.bank==="A" || S.bank==="B") return true;
-  return false;
+  return true;   /* AOG-SP-KITCD-V1 — every bank ships with a kit now */
 }
 function memUsed(){
   let s=0;
@@ -878,8 +953,7 @@ function cutPad(src, id){
 function padSource(id){                /* what the trim page is looking at */
   const u=USER[S.bank] && USER[S.bank][id];
   if(u) return u;
-  if(S.bank==="A" || S.bank==="B") return ROM[id] || null;
-  return null;
+  return romFor(S.bank)[id] || null;
 }
 function pushPad(id){
   if(!engine) return;
@@ -887,13 +961,11 @@ function pushPad(id){
   if(u){
     const copy=cutPad(u, id);
     engine.port.postMessage({type:"kit", id:id, rate:26040, samples:copy.buffer}, [copy.buffer]);
-  } else if(S.bank==="A" || S.bank==="B"){
-    const rom=ROM[id];
-    if(!rom) return;
+  } else {
+    const rom=romFor(S.bank)[id];
+    if(!rom){ engine.port.postMessage({type:"clear", id:id}); return; }
     const copy=cutPad(rom, id);
     engine.port.postMessage({type:"kit", id:id, rate:26040, samples:copy.buffer}, [copy.buffer]);
-  } else {
-    engine.port.postMessage({type:"clear", id:id});
   }
 }
 function pushBank(){ VOICES.forEach(v=>pushPad(v.id)); }
@@ -927,10 +999,16 @@ async function bootSampler(){
         const q=quantize12(audio.getChannelData(0));
         ROM[v.id]=q;
         ROM_LEN[v.id]=q.length/26040;
-        const copy=new Float32Array(q);
-        engine.port.postMessage({type:"kit", id:v.id, rate:rate, samples:copy.buffer}, [copy.buffer]);
+        for(const bk of ["C","D"]){
+          const off2=new OC(1, frames, rate);
+          const d2=off2.createGain(); d2.gain.value=0.72; d2.connect(off2.destination);
+          renderVoice(v.id, 0.004, d2, off2, bk);
+          const a2=await off2.startRendering();
+          ROMK[bk][v.id]=quantize12(a2.getChannelData(0));
+        }
       }
       kitReady=true;
+      pushBank();
       refreshLcd();
     }catch(err){
       try{ if(engine) engine.disconnect(); }catch(e){}
@@ -974,8 +1052,8 @@ function hit(id, time, fromSeq, accent){
   if(!padHasSound(id)) return;
   if(engine && kitReady){
     engine.port.postMessage(chanMsg(id, t0, accent));
-  } else if(S.bank==="A" || S.bank==="B"){
-    renderVoice(id, t0, bus, c);
+  } else {
+    renderVoice(id, t0, bus, c, S.bank);
     bootSampler();
   }
 }
@@ -1168,7 +1246,6 @@ function lcdText(){
      had four banks and only the ones you sampled into made a sound. But the panel
      never said so — the pads read EMPTY and nothing else told you what to do about
      it. The screen says it now, in the machine's own voice. */
-  if(bankEmpty()) return "BANK "+S.bank+" IS EMPTY\nTAP A PAD TO LOAD A SOUND\n"+free+"s FREE  ·  A AND B ARE FULL";
   const seg="SEG 0"+(S.seg+1)+"  LEN "+segLen();
   const trk=S.track.length ? ("TRK "+(S.trackOn?((S.trkI%S.track.length)+1):"-")+"/"+S.track.length+" "+S.track.map(n=>n+1).join("")) : "TRK --";
   return seg+"   "+bpm+" BPM\n"+S.bank+" SW "+sw+"% TC "+S.tc+" "+run+rec+"\n"+trk+"   "+free+"s";
@@ -1263,6 +1340,7 @@ function padCaption(v){
   const named=USER_NAME[S.bank] && USER_NAME[S.bank][v.id];
   if(named) return named;
   if(!padHasSound(v.id)) return S.lang==="es"?"VACÍO":"EMPTY";
+  if(KIT_NAME[S.bank]) return KIT_NAME[S.bank][v.id]||v.face;
   return v.face;
 }
 const USER_NAME={A:{},B:{},C:{},D:{}};
@@ -1288,7 +1366,10 @@ function machineHtml(){
       <button type="button" class="s-play${S.playing?" go":""}" data-simple="play">${S.playing?t("sStop"):t("sPlay")}</button>
       <button type="button" class="s-clear" data-simple="clear">${t("sClear")}</button>
       <button type="button" class="s-decks" data-simple="decks">${t("sDecks")}</button>
-    </div><p class="simple-line">${t("sLine")}</p>`:"";
+    </div>
+    <div class="simple-row"><span>${t("sKit")}</span>${["A","B","C","D"].map(b=>`<button type="button" class="sp-key${S.bank===b?" on":""}" data-simple-bank="${b}" title="${(KIT_LABEL[b]||["",""])[S.lang==="es"?1:0]}">${b}</button>`).join("")}<em>${(KIT_LABEL[S.bank]||["",""])[S.lang==="es"?1:0]}</em></div>
+    <div class="simple-row"><span>${t("sPart")}</span>${Array.from({length:SEGS},(_,i)=>`<button type="button" class="sp-key${S.seg===i?" on":""}" data-simple-seg="${i}">${i+1}</button>`).join("")}</div>
+    <p class="simple-line">${t("sLine")}</p>`:"";
   return `<div class="machine no-print${simple?" simple":""}">
     <div class="chassis-top">
       <div class="screws"><span class="screw"><i></i></span><span class="screw"><i></i></span></div>
@@ -1554,7 +1635,7 @@ async function bounceToDecks(){
     eq.output.connect(g); g.connect(lim); lim.connect(off.destination);
     VOICES.forEach(v=>{
       const u=USER[S.bank] && USER[S.bank][v.id];
-      const src=u ? u : ((S.bank==="A"||S.bank==="B") ? ROM[v.id] : null);
+      const src=u ? u : (romFor(S.bank)[v.id] || null);
       if(!src) return;
       const copy=new Float32Array(src);
       node.port.postMessage({type:"kit", id:v.id, rate:26040, samples:copy.buffer},[copy.buffer]);
@@ -1816,6 +1897,8 @@ async function openWorkFile(file){
 function bind(){
   document.body.classList.toggle("bench-simple", S.bench!=="full");
   document.querySelectorAll("[data-bench]").forEach(b=>b.onclick=()=>{ S.bench=b.getAttribute("data-bench"); try{ localStorage.setItem("aog.drums.bench", S.bench); }catch(e){} paint(); });
+  document.querySelectorAll("[data-simple-bank]").forEach(b=>b.onclick=()=>{ const r=document.querySelector('[data-bank="'+b.getAttribute("data-simple-bank")+'"]'); if(r) r.click(); });
+  document.querySelectorAll("[data-simple-seg]").forEach(b=>b.onclick=()=>{ const r=document.querySelector('[data-seg="'+b.getAttribute("data-simple-seg")+'"]'); if(r) r.click(); document.querySelectorAll("[data-simple-seg]").forEach(x=>x.classList.toggle("on", x===b)); });
   document.querySelectorAll("[data-simple]").forEach(b=>b.onclick=()=>{ const id={play:"playBtn",clear:"clearBtn",decks:"toDecks"}[b.getAttribute("data-simple")]; const r=document.getElementById(id); if(r) r.click(); });
   const play=document.getElementById("playBtn");
   if(play) play.onclick=()=>{ S.playing?stop():start(); };

diff --git a/aog-deploy/drums-guide.html b/aog-deploy/drums-guide.html
@@ -195,6 +195,10 @@ footer { margin-top:2rem; padding-top:1rem; border-top:1px solid var(--line); co
       <img src="/pd-s-strip.png" alt="Play the beat, Clear the beat, Send to the turntables.">
       <b>The three buttons</b><span>Orange <b>plays</b> and stops. Red <b>clears</b> the beat. Blue <b>sends</b> it to the turntables. On the Full bench these are RUN, CLEAR and TO THE DECKS.</span>
     </div>
+    <div class="part wide">
+      <img src="/pd-s-rows.png" alt="Sounds A B C D and Part 1 to 8.">
+      <b>Sounds &middot; Part</b><span>A and B are the classic kit. <b>C</b> is electro: boom, snap, cowbell, conga, zap. <b>D</b> is dusty breaks: thump, crack, shaker, tambourine, snap, timbale, woodblock, triangle. Part 1 to 8 are the eight segments of your song.</span>
+    </div>
     <div class="part half">
       <img src="/pd-s-pads.png" alt="The eight pads.">
       <b>The pads</b><span>Tap one to hear it. Kick, snare, hats, clap, tom, rim, bell.</span>
